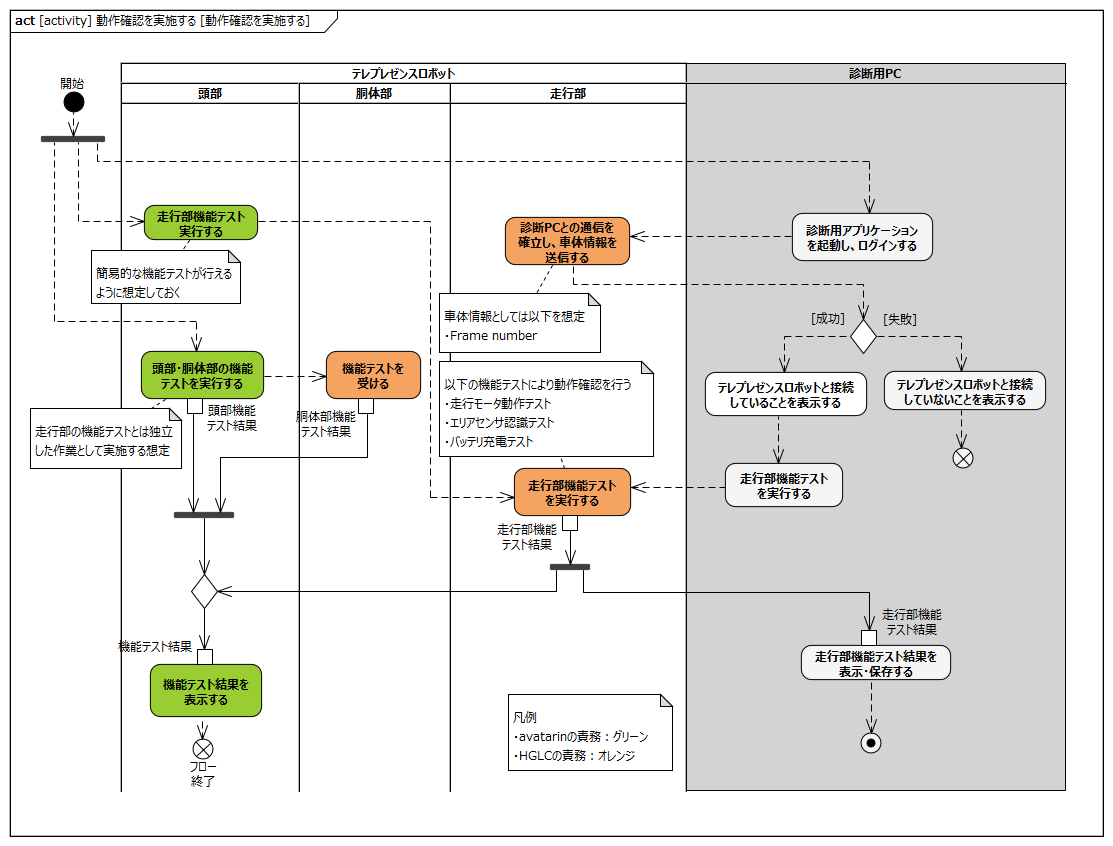
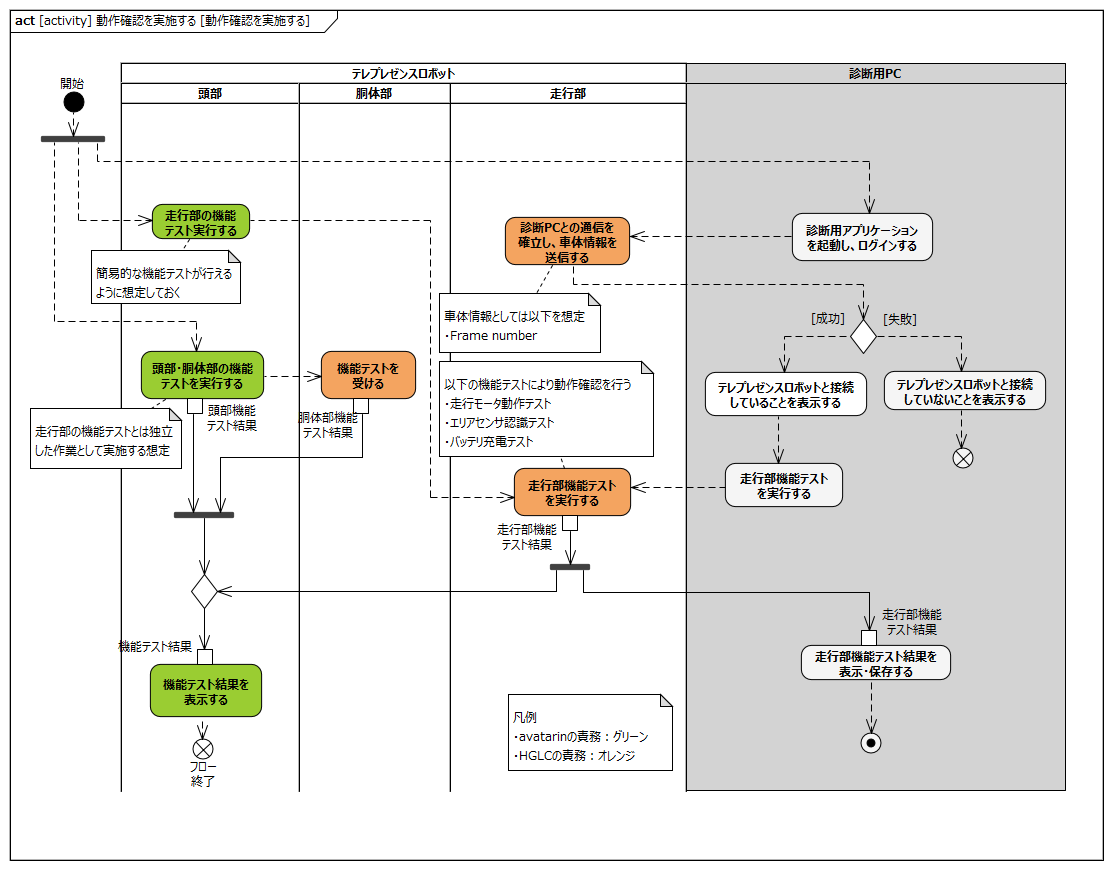
fix a bit

diff --git a/requirements/requirement.md b/requirements/requirement.md
@@ -2124,7 +2124,7 @@ YES動作コマンドは首垂直動作に依存し、NO動作コマンドは首
 
 |要求|備考|
 |:---|:---|
-|頭部は走行部機能テストを実行する|簡易的なテストが行えるように想定しておく|
+|頭部は走行部の機能テストを実行する|簡易的なテストが行えるように想定しておく|
 |頭部は頭部・胴体部の機能テストを実行する||
 |頭部は機能テスト結果を表示する||
 |胴体部は頭部による機能テストを受ける||
